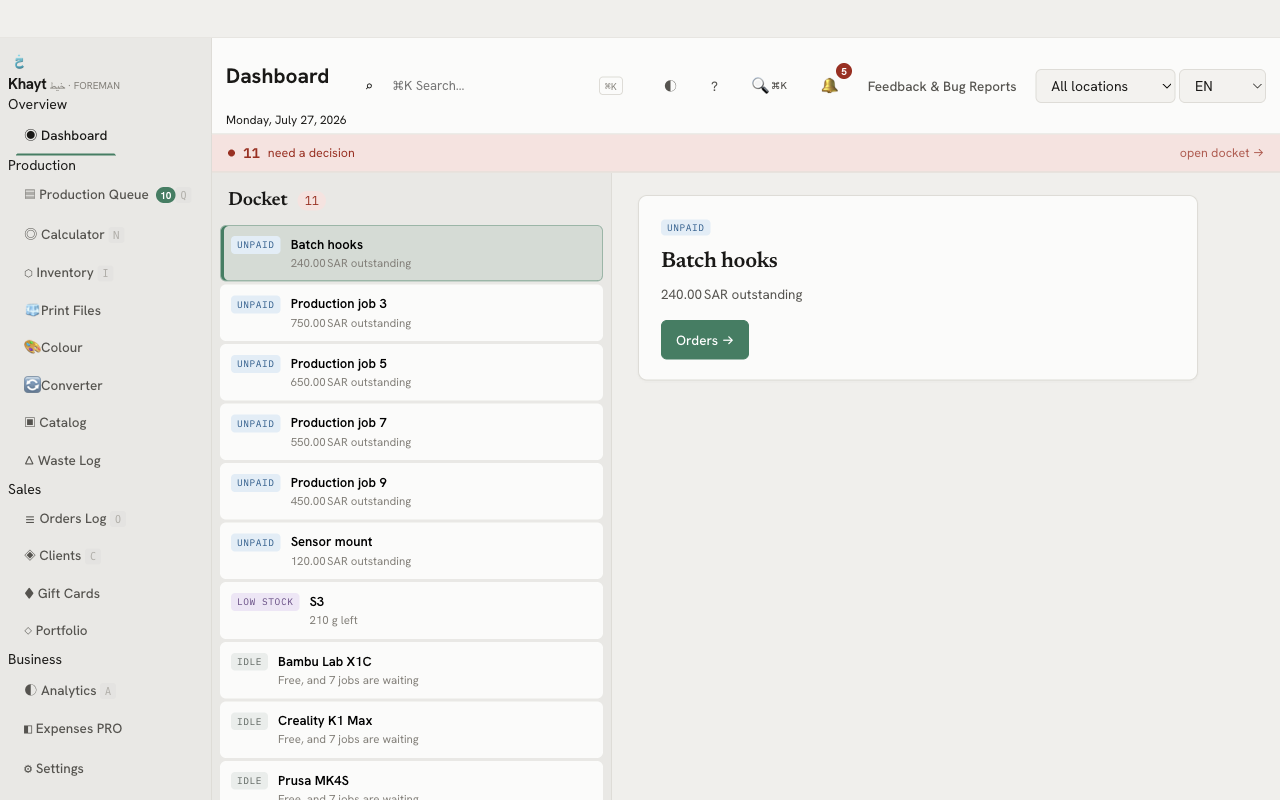
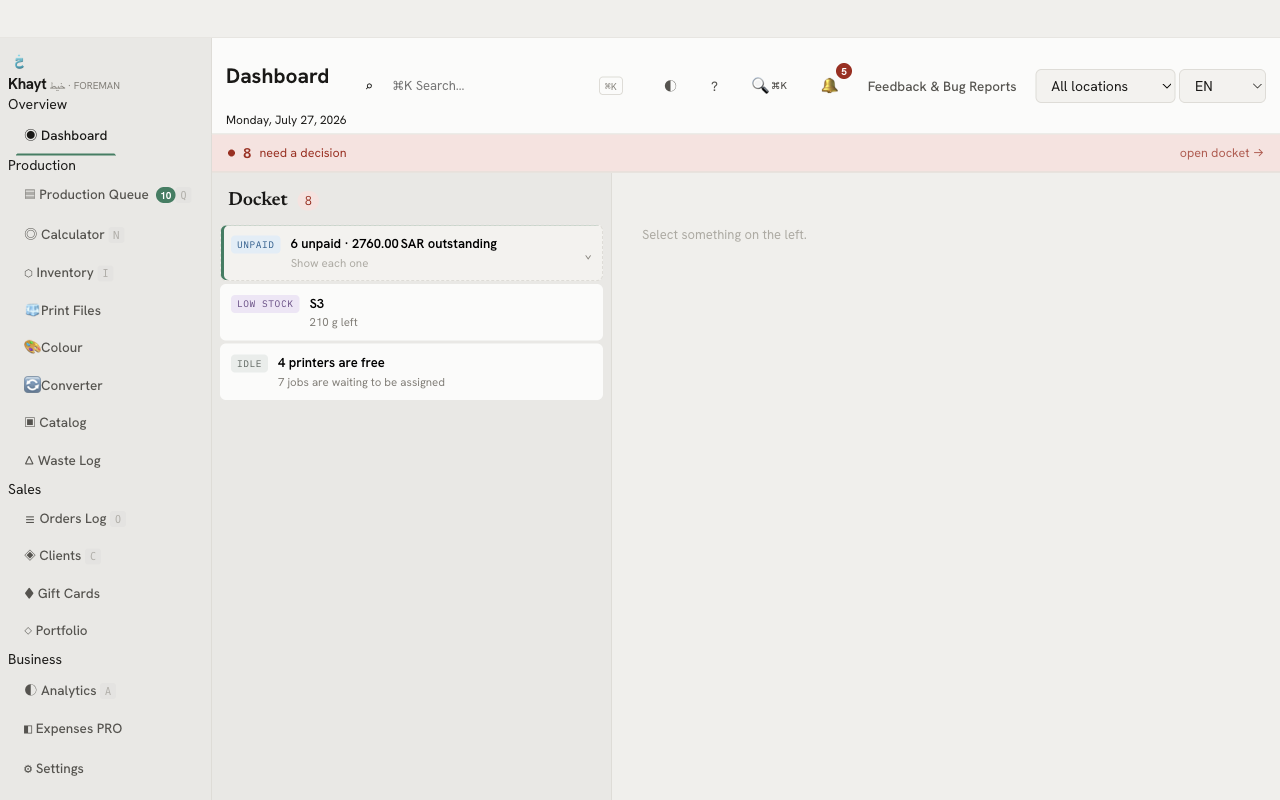
Foreman: a wall of unpaid no longer buries the stopped printer (#513)
Both problems from driving it, and they were the same problem twice: rows that
were not decisions crowding out rows that were.

VOLUME BEAT THE RANKING. Foreman ranks worst-first, but ranking is only worth
anything if the worst thing is on screen. A shop with thirty unpaid invoices
pushed its stopped printer off the top and the list stopped being a ranking and
became an accounts-receivable report. A run of the same severity longer than
three now collapses to one summary row — for money it totals them, so "30
unpaid · 3,000.00 SAR outstanding" is one line that says more than thirty did.
Click or Enter opens it.

The count deliberately does NOT follow the collapse. The bar and the header
still say 33, because that is how many things are outstanding; a group is a
display affordance and a count that shrank when you tidied the view would be
the same class of lie as the ones #500 through #502 removed.

Measured: 33 items, 4 rows drawn — Stopped, Late, the unpaid group, Idle — and
34 rows after expanding.

IDLE PRINTERS WERE NOT DECISIONS. Four idle machines emitted four
near-identical rows saying the same thing. Which printer is free is not the
decision — "there is free capacity and waiting work" is, and the answer for all
of them is the same: go assign something. It is one row now, with the machine
names in the detail pane where they belong rather than as four list entries
competing with a stopped printer.
[…]

diff --git a/renderer/themes/foreman/screens.js b/renderer/themes/foreman/screens.js
@@ -124,7 +124,7 @@
         const owed = (typeof orderOwedBase === 'function') ? orderOwedBase(o) : 0;
         if (!(owed > 0)) continue;
         rows.push({
-          key: `p:${o.id}`, sev: 'cash', orderId: o.id,
+          key: `p:${o.id}`, sev: 'cash', orderId: o.id, amount: owed,
           title: o.project || o.id,
           detail: tr('fm.owes', '{amt} outstanding').replace('{amt}', money(owed)),
           action: { label: tr('fm.go_orders', 'Orders'), tab: 'logs-tab' },
@@ -147,10 +147,17 @@
       }
     }
 
-    // 5 — capacity going unused, but only when there is work it could take.
+    // 5 — capacity going unused, as ONE row rather than one per printer.
+    //
+    // Which printer is free is not the decision; "there is free capacity and
+    // waiting work" is, and the answer is the same for all of them — go assign
+    // something. Four idle machines emitting four near-identical rows padded a
+    // list whose whole promise is that every row needs an action from you, and
+    // pushed the genuinely urgent rows off the screen.
     const waiting = orders.filter((o) => o && o.status !== 'completed' && o.status !== 'quote'
       && o.status !== 'printing' && !o.archived).length;
     if (waiting > 0 && global.KhaytAttention?.machineState) {
+      const idle = [];
       for (const m of mach) {
         let st = 'idle';
         try {
@@ -158,11 +165,16 @@
             m, (typeof machineStatusCache !== 'undefined' ? machineStatusCache : {})[m.id], {},
           );
         } catch (_) { st = 'idle'; }
-        if (st !== 'idle') continue;
+        if (st === 'idle') idle.push(m.name || m.id);
+      }
+      if (idle.length) {
         rows.push({
-          key: `d:${m.id}`, sev: 'idle', machineId: m.id,
-          title: m.name || m.id,
-          detail: tr('fm.idle_with_work', 'Free, and {n} jobs are waiting').replace('{n}', waiting),
+          key: 'd:idle', sev: 'idle',
+          title: idle.length === 1
+            ? tr('fm.idle_one', '{m} is free').replace('{m}', idle[0])
+            : tr('fm.idle_many', '{n} printers are free').replace('{n}', idle.length),
+          detail: tr('fm.idle_waiting', '{n} jobs are waiting to be assigned').replace('{n}', waiting),
+          note: idle.join(' · '),
           action: { label: tr('fm.go_queue', 'Queue'), tab: 'queue-tab' },
         });
       }
@@ -182,6 +194,52 @@
 
   let focusKey = null;
 
+  /* A severity with more than this many rows collapses to a single summary row.
+     Worst-first ranking is defeated by volume otherwise: a shop with thirty
+     unpaid invoices pushes its stopped printer off the screen, and the list
+     stops being a ranking and becomes an accounts-receivable report. Three is
+     the point where a run reads as "a few things" rather than "a category". */
+  const GROUP_AT = 3;
+  const expanded = new Set();   // severities the user has opened
+
+  /**
+   * Turn the ranked items into what actually gets drawn: runs of the same
+   * severity longer than GROUP_AT become one group row unless opened.
+   * Both the renderer and the keyboard walk this, so focus can never land on a
+   * row that is not on screen.
+   */
+  function visibleRows(rows) {
+    const out = [];
+    let i = 0;
+    while (i < rows.length) {
+      const sev = rows[i].sev;
+      let j = i;
+      while (j < rows.length && rows[j].sev === sev) j++;
+      const run = rows.slice(i, j);
+      if (run.length > GROUP_AT && !expanded.has(sev)) {
+        out.push({ group: true, sev, items: run, key: `g:${sev}` });
+      } else {
+        if (run.length > GROUP_AT) out.push({ group: true, sev, items: run, key: `g:${sev}`, open: true });
+        out.push(...run);
+      }
+      i = j;
+    }
+    return out;
+  }
+
+  /** Money in a run, when the run is about money — otherwise just a count. */
+  function groupSummary(sev, items) {
+    if (sev === 'cash') {
+      let total = 0;
+      for (const it of items) total += (+it.amount || 0);
+      return total > 0
+        ? tr('fm.group_cash', '{n} unpaid · {amt} outstanding')
+          .replace('{n}', items.length).replace('{amt}', money(total))
+        : tr('fm.group_n', '{n} items').replace('{n}', items.length);
+    }
+    return tr('fm.group_n', '{n} items').replace('{n}', items.length);
+  }
+
   function rowHtml(r, i) {
     const [k, f] = SEV_LABEL[r.sev] || SEV_LABEL.idle;
     return `<button type="button" class="fm-row fm-${r.sev}${r.key === focusKey ? ' focused' : ''}"
@@ -194,6 +252,22 @@
     </button>`;
   }
 
+  function groupRowHtml(g) {
+    const [k, f] = SEV_LABEL[g.sev] || SEV_LABEL.idle;
+    const open = !!g.open;
+    return `<button type="button" class="fm-row fm-group fm-${g.sev}${g.key === focusKey ? ' focused' : ''}"
+      data-fm-group="${escHtml(g.sev)}" aria-expanded="${open}" tabindex="-1">
+      <span class="fm-sev">${escHtml(tr(k, f))}</span>
+      <span class="fm-row-main">
+        <span class="fm-row-title">${escHtml(groupSummary(g.sev, g.items))}</span>
+        <span class="fm-row-detail">${escHtml(open
+          ? tr('fm.group_hide', 'Hide them')
+          : tr('fm.group_show', 'Show each one'))}</span>
+      </span>
+      <span class="fm-chev">${open ? '\u2303' : '\u2304'}</span>
+    </button>`;
+  }
+
   function detailHtml(r) {
     if (!r) {
       return `<div class="fm-detail-empty">${escHtml(tr('fm.pick_one', 'Select something on the left.'))}</div>`;
@@ -203,6 +277,7 @@
       <span class="fm-sev fm-${r.sev}">${escHtml(tr(k, f))}</span>
       <h2>${escHtml(r.title)}</h2>
       <p>${escHtml(r.detail)}</p>
+      ${r.note ? `<p class="fm-note">${escHtml(r.note)}</p>` : ''}
       <div class="fm-actions">
         <button type="button" class="btn primary" data-fm-act="${escHtml(r.action.tab)}"
           ${r.orderId ? `data-fm-order="${escHtml(r.orderId)}"` : ''}>${escHtml(r.action.label)} →</button>
@@ -215,11 +290,12 @@
     if (!host) return false;
 
     const rows = buildDocket();
-    if (!rows.some((r) => r.key === focusKey)) focusKey = rows[0]?.key || null;
-    const focused = rows.find((r) => r.key === focusKey) || null;
+    const vis = visibleRows(rows);
+    if (!vis.some((r) => r.key === focusKey)) focusKey = vis[0]?.key || null;
+    const focused = vis.find((r) => r.key === focusKey && !r.group) || null;
 
-    const list = rows.length
-      ? rows.map(rowHtml).join('')
+    const list = vis.length
+      ? vis.map((r, i) => (r.group ? groupRowHtml(r) : rowHtml(r, i))).join('')
       : `<div class="fm-clear">
            <strong>${escHtml(tr('fm.clear_title', 'Nothing needs you'))}</strong>
            <span>${escHtml(tr('fm.clear_sub', 'No stopped printers, nothing late, nothing unpaid.'))}</span>
@@ -243,6 +319,14 @@
         renderDashboard(host);
       });
     });
+    host.querySelectorAll('[data-fm-group]').forEach((el) => {
+      el.addEventListener('click', () => {
+        const sev = el.getAttribute('data-fm-group');
+        if (expanded.has(sev)) expanded.delete(sev); else expanded.add(sev);
+        focusKey = `g:${sev}`;
+        renderDashboard(host);
+      });
+    });
     host.querySelectorAll('[data-fm-act]').forEach((el) => {
       el.addEventListener('click', () => {
         const orderId = el.getAttribute('data-fm-order');
@@ -258,7 +342,9 @@
 
   /** Keyboard triage: move the focus, open the focused row. */
   function moveFocus(delta) {
-    const rows = buildDocket();
+    // Walk what is on screen, not the raw list — otherwise focus lands inside a
+    // collapsed group and the selection appears to vanish.
+    const rows = visibleRows(buildDocket());
     if (!rows.length) return;
     let i = rows.findIndex((r) => r.key === focusKey);
     if (i < 0) i = 0; else i = Math.max(0, Math.min(rows.length - 1, i + delta));
@@ -269,8 +355,14 @@
   }
 
   function openFocused() {
-    const r = buildDocket().find((x) => x.key === focusKey);
+    const r = visibleRows(buildDocket()).find((x) => x.key === focusKey);
     if (!r) return;
+    if (r.group) {                       // Enter opens or closes a group
+      if (expanded.has(r.sev)) expanded.delete(r.sev); else expanded.add(r.sev);
+      const host = document.getElementById('dashboardContent');
+      if (host) renderDashboard(host);
+      return;
+    }
     if (r.orderId && typeof openOrderDetail === 'function') { openOrderDetail(r.orderId); return; }
     if (typeof switchTab === 'function') switchTab(r.action.tab);
   }

diff --git a/test/themes-qa.test.js b/test/themes-qa.test.js
@@ -247,3 +247,30 @@ test('every shell declares the base layout it needs', () => {
       `${shell} must lay out .khayt-body`);
   }
 });
+
+test('Foreman ranking survives volume, and the count stays truthful', () => {
+  // Worst-first loses to volume otherwise: thirty unpaid invoices bury the
+  // stopped printer they are ranked below, and the list quietly turns into an
+  // accounts-receivable report. Runs longer than GROUP_AT collapse to one row.
+  const src = fs.readFileSync(path.join(root, 'renderer/themes/foreman/screens.js'), 'utf8');
+  assert.match(src, /const GROUP_AT = 3;/, 'a run longer than this collapses');
+  assert.match(src, /function visibleRows/, 'the drawn list is derived, not the raw one');
+  // The count must report ITEMS. A group is a display affordance, and a bar
+  // that counted collapsed rows would under-report what is outstanding.
+  assert.match(src, /fm-count\$\{rows\.length \? '' : ' zero'\}">\$\{rows\.length\}/,
+    'the header count comes from the item list, not the drawn rows');
+  // Focus must walk what is on screen or it lands inside a collapsed group.
+  assert.match(src, /const rows = visibleRows\(buildDocket\(\)\);/,
+    'keyboard movement walks the visible rows');
+});
+
+test('Foreman treats free capacity as one decision, not one per printer', () => {
+  // Which printer is free is not the decision — "there is free capacity and
+  // waiting work" is, and the answer is the same for all of them. Four idle
+  // machines emitting four near-identical rows padded a list whose promise is
+  // that every row needs an action.
+  const src = fs.readFileSync(path.join(root, 'renderer/themes/foreman/screens.js'), 'utf8');
+  assert.match(src, /key: 'd:idle', sev: 'idle',/, 'idle is a single aggregate row');
+  assert.equal(/key: `d:\$\{m\.id\}`/.test(src), false, 'never one row per idle machine');
+  assert.match(src, /note: idle\.join\(' · '\)/, 'the machine names belong in the detail pane');
+});

diff --git a/renderer/themes/foreman/shell.css b/renderer/themes/foreman/shell.css
@@ -206,3 +206,34 @@ body.khayt-foreman .fm-detail-empty {
   body.khayt-foreman .fm-docket { border-inline-end: 0; border-bottom: 1px solid var(--line); }
   body.khayt-foreman .fm-rows { max-height: 46vh; }
 }
+
+/* ---- 4. Grouped runs.
+
+   A severity with more than a few rows collapses to one summary row. Without
+   it the worst-first ranking loses to volume: thirty unpaid invoices bury the
+   stopped printer they are ranked below. The group row is visibly a control,
+   not an item — full-width chevron, lighter fill — so it does not read as one
+   more thing needing a decision. ---- */
+body.khayt-foreman .fm-row.fm-group {
+  background: var(--surface-2);
+  border-style: dashed;
+  border-color: var(--line);
+}
+body.khayt-foreman .fm-row.fm-group:hover { background: var(--surface-3); }
+body.khayt-foreman .fm-row.fm-group .fm-row-title { font-weight: 600; }
+body.khayt-foreman .fm-row.fm-group .fm-row-detail { color: var(--ink-4); }
+body.khayt-foreman .fm-chev {
+  margin-inline-start: auto;
+  font-family: var(--font-num); font-size: 13px; color: var(--ink-3);
+  flex: 0 0 auto; align-self: center;
+}
+/* Items under an open group are stepped in, so the run reads as belonging to
+   the header above it rather than as a flat list that happens to repeat. */
+body.khayt-foreman .fm-row.fm-group[aria-expanded="true"] + .fm-row,
+body.khayt-foreman .fm-row.fm-group[aria-expanded="true"] ~ .fm-row {
+  margin-inline-start: 14px;
+}
+body.khayt-foreman .fm-note {
+  font-size: 12px; color: var(--ink-3);
+  border-top: 1px solid var(--line-2); padding-top: 10px; margin-top: -4px;
+}

diff --git a/renderer/locales/ar.js b/renderer/locales/ar.js
@@ -1411,6 +1411,13 @@
   "fm.owes": "{amt} مستحقة",
   "fm.low_left": "المتبقي {g} غرام",
   "fm.idle_with_work": "متاح، و{n} مهام في الانتظار",
+  "fm.group_cash": "{n} غير مدفوعة · {amt} مستحقة",
+  "fm.group_n": "{n} عناصر",
+  "fm.group_show": "اعرض كل واحد",
+  "fm.group_hide": "أخفِها",
+  "fm.idle_one": "{m} متاحة",
+  "fm.idle_many": "{n} طابعات متاحة",
+  "fm.idle_waiting": "{n} مهام تنتظر الإسناد",
   "fm.go_printers": "الطابعات",
   "fm.go_queue": "قائمة الإنتاج",
   "fm.go_orders": "الطلبات",

diff --git a/renderer/locales/ja.js b/renderer/locales/ja.js
@@ -1328,6 +1328,13 @@
   "fm.owes": "{amt} 未回収",
   "fm.low_left": "残り {g} g",
   "fm.idle_with_work": "空きあり、{n}件が待機中",
+  "fm.group_cash": "未払い {n} 件 · {amt} 未回収",
+  "fm.group_n": "{n} 件",
+  "fm.group_show": "個別に表示",
+  "fm.group_hide": "隠す",
+  "fm.idle_one": "{m} が空いています",
+  "fm.idle_many": "{n} 台のプリンターが空いています",
+  "fm.idle_waiting": "{n} 件が割り当て待ちです",
   "fm.go_printers": "プリンター",
   "fm.go_queue": "キュー",
   "fm.go_orders": "注文",

diff --git a/renderer/locales/fr.js b/renderer/locales/fr.js
@@ -1328,6 +1328,13 @@
   "fm.owes": "{amt} en souffrance",
   "fm.low_left": "{g} g restants",
   "fm.idle_with_work": "Libre, et {n} travaux attendent",
+  "fm.group_cash": "{n} impayés · {amt} en souffrance",
+  "fm.group_n": "{n} éléments",
+  "fm.group_show": "Afficher chacun",
+  "fm.group_hide": "Masquer",
+  "fm.idle_one": "{m} est libre",
+  "fm.idle_many": "{n} imprimantes libres",
+  "fm.idle_waiting": "{n} travaux attendent une affectation",
   "fm.go_printers": "Imprimantes",
   "fm.go_queue": "File",
   "fm.go_orders": "Commandes",

diff --git a/renderer/locales/de.js b/renderer/locales/de.js
@@ -1328,6 +1328,13 @@
   "fm.owes": "{amt} offen",
   "fm.low_left": "{g} g übrig",
   "fm.idle_with_work": "Frei, und {n} Aufträge warten",
+  "fm.group_cash": "{n} unbezahlt · {amt} offen",
+  "fm.group_n": "{n} Einträge",
+  "fm.group_show": "Einzeln anzeigen",
+  "fm.group_hide": "Ausblenden",
+  "fm.idle_one": "{m} ist frei",
+  "fm.idle_many": "{n} Drucker sind frei",
+  "fm.idle_waiting": "{n} Aufträge warten auf Zuweisung",
   "fm.go_printers": "Drucker",
   "fm.go_queue": "Warteschlange",
   "fm.go_orders": "Aufträge",

diff --git a/renderer/locales/es.js b/renderer/locales/es.js
@@ -1328,6 +1328,13 @@
   "fm.owes": "{amt} pendiente",
   "fm.low_left": "quedan {g} g",
   "fm.idle_with_work": "Libre, y {n} trabajos esperan",
+  "fm.group_cash": "{n} sin pagar · {amt} pendiente",
+  "fm.group_n": "{n} elementos",
+  "fm.group_show": "Ver cada uno",
+  "fm.group_hide": "Ocultarlos",
+  "fm.idle_one": "{m} está libre",
+  "fm.idle_many": "{n} impresoras libres",
+  "fm.idle_waiting": "{n} trabajos esperan asignación",
   "fm.go_printers": "Impresoras",
   "fm.go_queue": "Cola",
   "fm.go_orders": "Pedidos",

diff --git a/renderer/locales/en.js b/renderer/locales/en.js
@@ -1328,6 +1328,13 @@
   "fm.owes": "{amt} outstanding",
   "fm.low_left": "{g} g left",
   "fm.idle_with_work": "Free, and {n} jobs are waiting",
+  "fm.group_cash": "{n} unpaid · {amt} outstanding",
+  "fm.group_n": "{n} items",
+  "fm.group_show": "Show each one",
+  "fm.group_hide": "Hide them",
+  "fm.idle_one": "{m} is free",
+  "fm.idle_many": "{n} printers are free",
+  "fm.idle_waiting": "{n} jobs are waiting to be assigned",
   "fm.go_printers": "Printers",
   "fm.go_queue": "Queue",
   "fm.go_orders": "Orders",

diff --git a/renderer/locales/tr.js b/renderer/locales/tr.js
@@ -1328,6 +1328,13 @@
   "fm.owes": "{amt} tahsil edilmedi",
   "fm.low_left": "{g} g kaldı",
   "fm.idle_with_work": "Boşta ve {n} iş bekliyor",
+  "fm.group_cash": "{n} ödenmemiş · {amt} bakiye",
+  "fm.group_n": "{n} öğe",
+  "fm.group_show": "Tek tek göster",
+  "fm.group_hide": "Gizle",
+  "fm.idle_one": "{m} boşta",
+  "fm.idle_many": "{n} yazıcı boşta",
+  "fm.idle_waiting": "{n} iş atama bekliyor",
   "fm.go_printers": "Yazıcılar",
   "fm.go_queue": "Kuyruk",
   "fm.go_orders": "Siparişler",

diff --git a/renderer/locales/zh.js b/renderer/locales/zh.js
@@ -1328,6 +1328,13 @@
   "fm.owes": "未收 {amt}",
   "fm.low_left": "剩余 {g} 克",
   "fm.idle_with_work": "空闲，且有 {n} 个作业在等待",
+  "fm.group_cash": "{n} 项未付 · 未收 {amt}",
+  "fm.group_n": "{n} 项",
+  "fm.group_show": "逐项显示",
+  "fm.group_hide": "收起",
+  "fm.idle_one": "{m} 空闲",
+  "fm.idle_many": "{n} 台打印机空闲",
+  "fm.idle_waiting": "{n} 个作业等待指派",
   "fm.go_printers": "打印机",
   "fm.go_queue": "队列",
   "fm.go_orders": "订单",
